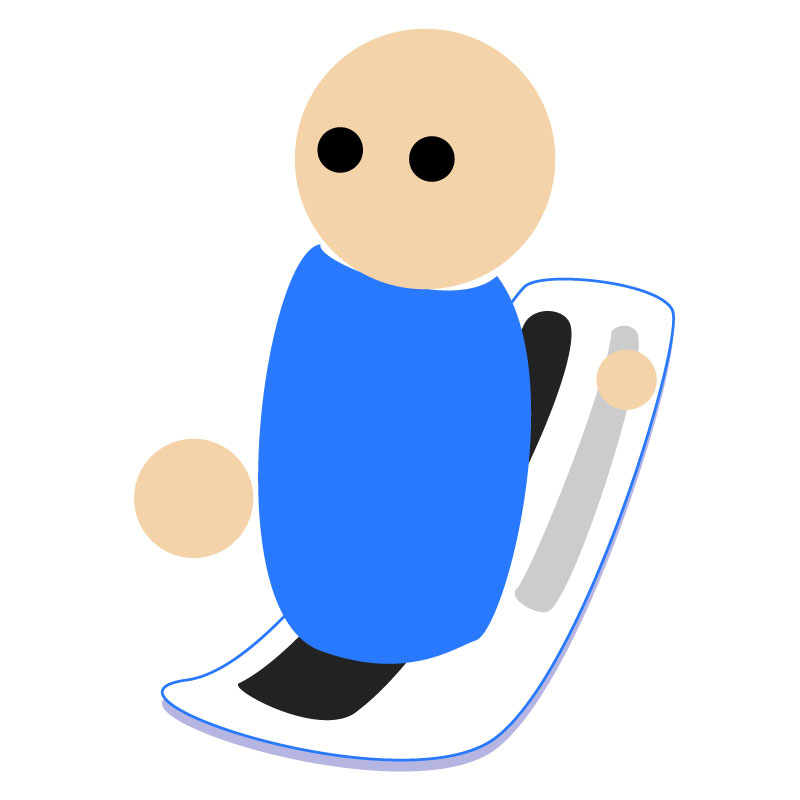
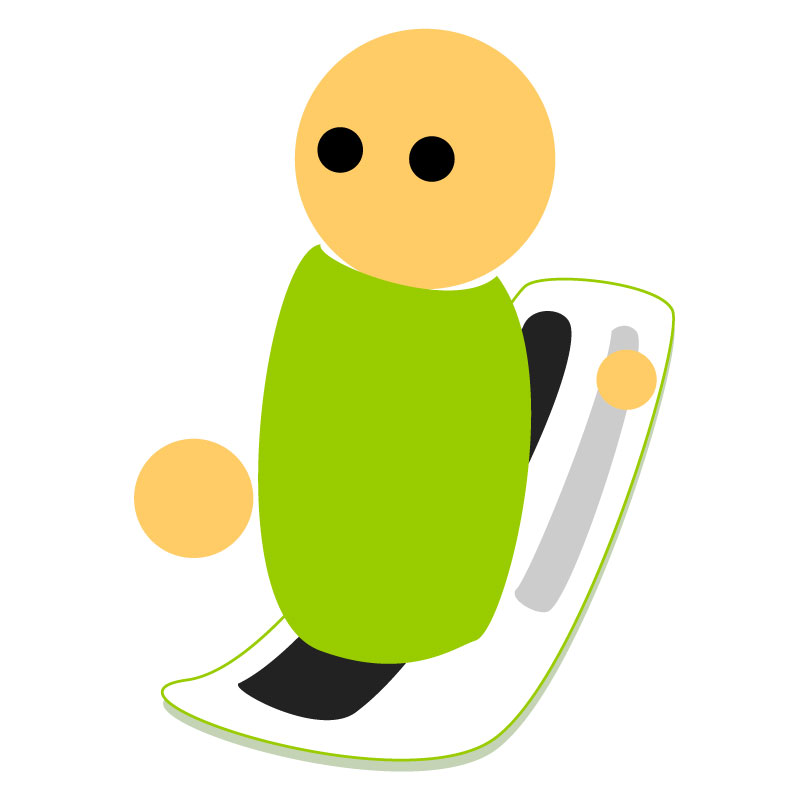
minimum ver start

diff --git a/public/index.html b/public/index.html
@@ -5,7 +5,7 @@
         <!-- スマホ用アイコン -->
         <link rel="apple-touch-icon" sizes="180x180" href="images/rogo_20200602.jpg">
         <!-- ファビコン -->
-        <link rel="icon" href="images/favicon_rebetuku.ico">
+        <link rel="icon" href="images/favicon_second.ico">
         <script src="https://code.jquery.com/jquery-3.2.1.min.js"></script>
         <!--すまほで表示を整える-->
         <meta name="viewport" content="width=device-width,initial-scale=1">
@@ -25,10 +25,11 @@
             <div class="mdc-top-app-bar__row">
                 <section class="mdc-top-app-bar__section mdc-top-app-bar__section--align-start">
                 <button style="display: none" class="material-icons mdc-top-app-bar__navigation-icon mdc-icon-button" aria-label="Open navigation menu">menu</button>
-                <span class="mdc-top-app-bar__title">Page title</span>
+                <!--<span class="mdc-top-app-bar__title">Page title</span>-->
+                <img id="header_logo" src="images/headerimg.png" style="width:auto; max-height: 64px; margin-left: 16px" onclick="reload()">
                 </section>
                 <section class="mdc-top-app-bar__section mdc-top-app-bar__section--align-end" role="toolbar">
-                <button id="login_icon" style="display:none; background-color:#75a7ff; height:32px; width:32px; padding:0px; overflow: hidden; border:none; border-radius: 50%; right: 10px; position:relative;" onclick="login_card_display()"><img id="usericon" width="32" height="32"></button>
+                <button id="login_icon" style="display:none; background-color:#ffffff; height:32px; width:32px; padding:0px; overflow: hidden; border:none; border-radius: 50%; right: 10px; position:relative;" onclick="login_card_display()"><img id="usericon" width="32" height="32"></button>
                 <button id="login_button" class="material-icons mdc-top-app-bar__action-item mdc-icon-button" aria-label="login" onclick="login_card_display()">account_circle</button>
                 <button style="display: none" class="material-icons mdc-top-app-bar__action-item mdc-icon-button" aria-label="Search">search</button>
                 <button style="display: none" class="material-icons mdc-top-app-bar__action-item mdc-icon-button" aria-label="Options">more_vert</button>
@@ -356,12 +357,33 @@
                 <span class="mdc-fab__icon material-icons">chat</span>
             </button>
         </div>
-        <div id="data_page" class="top_level_page" style="display: none; background-color: #eeeeee; flex-direction: column; padding-bottom: 16px; box-sizing: border-box;">
+        <div id="data_page" class="top_level_page" style="display: none; background-color: #eeeeee; padding-bottom: 16px; box-sizing: border-box;">
             <div id="chart_one" class="mdc-card log-chart">
-                <img src="images/sample_graph_1.png" style="height: auto; width: 100%">
+                <p style="position: absolute; margin: 0px; top: 32px; left: 32px;">カウント数</p>
+                <p style="position: absolute; color: #777777; font-size: 0.8em; margin: 0px; top: 52px; left: 32px;">目指せ100人</p>
+                <div id="count_chart_space" style="position: absolute; height: calc(100% - 128px); width: calc(100% - 64px); bottom: 48px;">
+                    <div id="threedaysago_count" style="height: 0%; width: 10%; position: absolute; bottom: 0px; left: 10%; border-radius: 4px 4px 0px 0px; background-color: #336600;z-index: 1;"></div>
+                    <div id="daybeforeyesterday_count" style="height: 0%; width: 10%; position: absolute; bottom: 0px; left: 30%; border-radius: 4px 4px 0px 0px; background-color: #336600;z-index: 1;"></div>
+                    <div id="yesterday_count" style="height: 0%; width: 10%; position: absolute; bottom: 0px; left: 50%; border-radius: 4px 4px 0px 0px; background-color: #336600;z-index: 1;"></div>
+                    <div id="today_count" style="height: 0%; width: 10%; position: absolute; bottom: 0px; left: 70%; border-radius: 4px 4px 0px 0px; background-color: #99cc00;z-index: 1;"></div>
+                    <p class="graph_text" style="bottom: -16px; left: 10%">３日前</p>
+                    <p class="graph_text" style="bottom: -16px; left: 30%">２日前</p>
+                    <p class="graph_text" style="bottom: -16px; left: 50%">１日前</p>
+                    <p class="graph_text" style="bottom: -16px; left: 70%">今日</p>
+                    <p class="graph_text" style="bottom: calc(100% - 6px); left: 90%">100人</p>
+                    <p class="graph_text" style="bottom: calc(75% - 6px); left: 90%">75人</p>
+                    <p class="graph_text" style="bottom: calc(50% - 6px); left: 90%">50人</p>
+                    <p class="graph_text" style="bottom: calc(25% - 6px); left: 90%">25人</p>
+                    <p class="graph_text" style="bottom: calc(0% - 6px); left: 90%">0人</p>
+                    <hr class="graph_holvar" style="bottom: calc(100% - 0px);">
+                    <hr class="graph_holvar" style="bottom: calc(75% - 0px);">
+                    <hr class="graph_holvar" style="bottom: calc(50% - 0px);">
+                    <hr class="graph_holvar" style="bottom: calc(25% - 0px);">
+                    <hr class="graph_holvar" style="bottom: calc(0% - 0px);">
+                </div>
             </div>
             <div id="chart_two" class="mdc-card log-chart">
-                <img src="images/sample_graph_2.png" style="height: auto; width: 100%">
+                開発予定地
             </div>
             <!--
             <button class="mdc-fab" aria-label="Favorite">
@@ -377,7 +399,7 @@
                         <button class="mdc-tab mdc-tab--active" role="tab" aria-selected="true" tabindex="0">
                             <span class="mdc-tab__content">
                                 <span id="bab_icon_home" class="mdc-tab__icon material-icons bab_icon using" aria-hidden="true">view_list</span>
-                                <span id="bab_icon_home_text" class="footer_parts mdc-tab__text-label bab_icon using">リストー</span>
+                                <span id="bab_icon_home_text" class="footer_parts mdc-tab__text-label bab_icon using">リスト</span>
                             </span>
                             <span class="mdc-tab-indicator mdc-tab-indicator--active onfooter">
                                 <span
@@ -412,7 +434,7 @@
                         <button class="mdc-tab" role="tab" aria-selected="false" tabindex="0">
                             <span class="mdc-tab__content">
                                 <span id="bab_icon_wadai" class="mdc-tab__icon material-icons bab_icon" aria-hidden="true">poll</span>
-                                <span id="bab_icon_wadai_text" class="footer_parts mdc-tab__text-label bab_icon">デーータ</span>
+                                <span id="bab_icon_wadai_text" class="footer_parts mdc-tab__text-label bab_icon">データ</span>
                             </span>
                             <span class="mdc-tab__ripple" hidden></span>
                             <span class="mdc-tab-indicator onfooter">
@@ -457,7 +479,7 @@
     <!--<script src="/__/firebase/init.js"></script>-->
         
     <!--javascript 読み込み-->
-    <script src="main.js"></script>
-    <script src="realtime.js"></script>
-    
+    <script src="js/main.js"></script>
+    <script src="js/realtime.js"></script>
+    <script src="js/graph.js"></script>
 </html>

diff --git a/public/js/graph.js b/public/js/graph.js
@@ -1,0 +1,70 @@
+var global_count_statics = {}
+var server_time_batton;//日付の切り替わりを避ける（エラーを回避するための変数)
+
+function graph_check(){
+    //その日付の情報を参照して、中身がundefinedなら取得して挿入する処理、それ以外は何もしない処理
+    //まずは今日の日付を取得しようか
+    server_time_batton =  new firebase.firestore.Timestamp.now();
+    for (var i = 0; i < 4; i++) {
+        //4日前までデータをとってくると想定しているため、4度のループを行う
+        //console.log("現在" + (i+1) + "回目の処理です。");
+        var js_date = server_time_batton.toDate();
+        js_date.setDate(js_date.getDate() - i);
+        var date_text = getDate(js_date);
+        //console.log(date_text);
+        //該当する日付のデータをとってきているかいないかを判別
+        if(global_count_statics[date_text] == undefined){
+            //取ってくる
+            db.collection("counts").doc(date_text).get().then(function(the_count_doc){
+                //console.log(the_count_doc.id,the_count_doc.data());
+                //代入
+                global_count_statics[the_count_doc.id] = the_count_doc.data();
+                //全部の代入が終わったときに、表示を計算してまとめて整えたいがそれはあきらめて、別関数内で今日の日付との比較を実施することで対応をとることにした
+                //console.log("i は", i);
+                insert_to_graph(the_count_doc.id);
+            }).catch(function(error){
+                console.log("error => ", error);
+            });
+        }/*else{
+            console.log(date_text + "の統計はもう持ってる");
+            if(i == 3){
+                insert_to_graph()
+            }
+        }*/
+    }
+
+}
+
+//すべての日付分をまとめて入れたいから3日前の時だけまともな動き方をするように考えている
+function insert_to_graph(a_day){
+    //var today_text = getDate(server_time_batton);
+    //今日
+    var the_date = server_time_batton.toDate();
+    //3日前
+    the_date.setDate(the_date.getDate() - 3);
+    //3日前のテキスト
+    var three_ago_text = getDate(the_date);
+    if(a_day == three_ago_text){
+        //3日前の処理なら、代入するよー
+        //console.log("insert_tograph 起動");
+        var day_count = 0;
+        //数値が小さい順に動いてるみたい
+        for (let key in global_count_statics) {
+            //console.log('key:' + key + ' value:' + global_count_statics[key].count);
+            if(day_count == 3){
+                var dom_id = "today_count"; 
+            }else if(day_count == 2){
+                var dom_id = "yesterday_count";
+            }else if(day_count == 1){
+                var dom_id = "daybeforeyesterday_count";
+            }else if(day_count == 0){
+                var dom_id = "threedaysago_count";
+            }
+            var the_height = global_count_statics[key].count;
+            document.getElementById(dom_id).style.height = String(the_height) + "%";
+            day_count+=1;
+        }
+    }else{
+        return
+    }
+}

diff --git a/public/main.css b/public/main.css
@@ -15,8 +15,8 @@
     height: 50px;
 }.mdc-tab-indicator.onfooter{
     display: none !important;
-}.mdc-tab--active{
-    color: #2979ff !important;
+}.mdc-tab--active .mdc-tab__icon{
+    color: #336600 !important;
 }.mdc-tab__text-label{
     font-size: 0.5em
 }
@@ -32,8 +32,8 @@ html{
     background-color: #eeeeee;
     overflow: hidden;
 }:root{
-    --mdc-theme-primary: #2979ff;
-    --mdc-theme-secondary: #ffab40;
+    --mdc-theme-primary: #99cc00;
+    --mdc-theme-secondary: #ffcc66;
     --mdc-theme-on-primary: #000000;
 }
 
@@ -45,10 +45,14 @@ html{
 @media screen and (min-width:600px){
     .top_level_page{
         height: calc(100% - 114px);
+    }#header_logo{
+        height: 64px;
     }
 }@media screen and (max-width:599px){
     .top_level_page{
         height: calc(100% - 106px);
+    }#header_logo{
+        height: 56px;
     }
 }.top_level_page{
     width: 100%;
@@ -97,11 +101,25 @@ html{
 .log-chart{
     padding: 24px;
     box-sizing: border-box;
-    width: calc(100% - 32px);
     height: fit-content;
     padding: 16px ;
     position: relative;
-    margin: 16px 16px 0px 16px;
+}@media screen and (min-width:376px){
+    /*スマホ以外の時*/
+    .log-chart{
+        width: calc(50% - 24px);
+        margin: 16px 0px 0px 16px;
+    }#data_page{
+        flex-direction: row;
+    }
+}@media screen and (max-width:375px){
+    /*スマホの時*/
+    .log-chart{
+        width: calc(100% - 32px);
+        margin: 16px 16px 0px 16px;
+    }#data_page{
+        flex-direction: column;
+    }
 }
 
 #google_div{
@@ -144,27 +162,27 @@ html{
 @keyframes hurueru {
     0% {
         transform: translate(0px, 0px) rotateZ(0deg);
-        color: #ffab40;
+        color: #003300;
     }
     0.625% {
         transform: translate(4px, 4px) rotateZ(1deg);
-        color: #ffab40;
+        color: #003300;
     }
     1.25% {
         transform: translate(0px, 4px) rotateZ(0deg);
-        color: #ffab40;
+        color: #003300;
     }
     1.875% {
         transform: translate(4px, 0px) rotateZ(-1deg);
-        color: #ffab40;
+        color: #003300;
     }
     2.5% {
         transform: translate(0px, 0px) rotateZ(0deg);
-        color: #ffab40;
+        color: #003300;
     }
     100% {
         transform: translate(0px, 0px) rotateZ(0deg);
-        color: #ffffff;
+        color: #669900;
     }
 }
 
@@ -203,4 +221,28 @@ html{
     display: block;
     content: " ";
     margin-top: 100%;
+}
+
+
+#chart_one::before {
+    display: block;
+    content: " ";
+    margin-top: 100%;
+}
+.graph_text{
+    position: absolute;
+    font-size: 0.5em;
+    color: #777777;
+    margin: 0px;
+    white-space: nowrap;
+}
+.graph_holvar{
+    position: absolute;
+    width: 77%;
+    left: 10%;
+    margin: 0px;
+    height: 1px;
+    background-color: #eeeeee;
+    border: none;
+    color: #eeeeee;
 }

diff --git a/public/js/main.js b/public/js/main.js
@@ -31,6 +31,7 @@ tabBar.listen('MDCTabBar:activated',function(event){
         //document.getElementById("talk_page").style.display = "flex";
         //talk_page_check();
         document.getElementById("data_page").style.display = "flex";
+        data_page_check();
     }else if(index==3){
         //あとでデータのページを表示するための場所に切り替わるかな？
         console.log("data_page_?");
@@ -921,3 +922,11 @@ function fire_userdata_get(uid){
     });
 }
 
+function reload(){
+    location.reload();
+}
+
+function data_page_check(){
+    //とりあえずグラフを表示するのがやるべきやね
+    graph_check();
+};

diff --git a/public/loading.css b/public/loading.css
@@ -1,11 +1,11 @@
 /*▼▼ ここから追加する ▼▼*/
 .loader-wrap {
 	display: flex;
-    align-items: center;
-    justify-content: center;
-    width: 100%;
-    height: 100%;
-    background: #fff;
+  align-items: center;
+  justify-content: center;
+  width: 100%;
+  height: 100%;
+  background: #fff;
 }
 /*▲▲ ここまで追加する ▲▲*/
 
